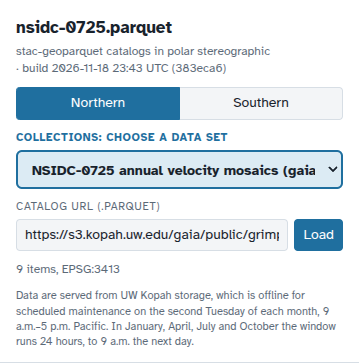
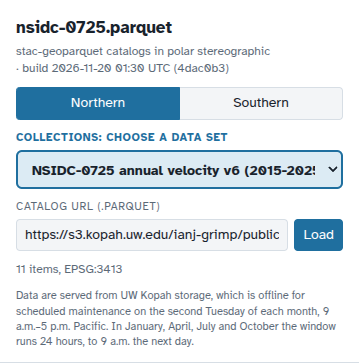
Refresh README screenshots and docs for the 11-19/20 changes
- All guide images retaken from the live viewer (annual v6 2015-2025, TSX v5,
  viridis speed, collapsible Color bar and Download, axis titles, plot grip and
  resize corner, Save download file); new background.jpg.
- README: Background paragraph and image in the tour, captions and the
  Jakobshavn anomaly text for 2014-15 to 2024-25, grimpdownload note, error-bar
  timing. Guide: color defaults, browse transparency, plot style/move/resize,
  collapsed Download and one-site TSX downloads.
- guideScreenshots.mjs: ianj-grimp catalogs, default color maps, background
  shot, crop box drawn for the Download panel; guideImages.py adds background.

diff --git a/tools/guideImages.py b/tools/guideImages.py
@@ -11,7 +11,7 @@ import os
 
 from PIL import Image
 
-fullShots = ['overview', 'vx', 'anomaly', 'animation', 'antarctica', 'tsx', 'readout', 'timeseries']
+fullShots = ['overview', 'vx', 'anomaly', 'animation', 'antarctica', 'tsx', 'readout', 'timeseries', 'background']
 panelShots = ['panel-catalog', 'panel-color', 'panel-download', 'panel-sites']
 
 

diff --git a/README.md b/README.md
@@ -50,7 +50,8 @@ These links only choose where to start. Once the viewer is open, switch to any o
 the **Collections** menu at the top of the panel, and between Greenland and Antarctica with the
 **Northern** / **Southern** buttons above it.
 
-Nothing to install: it runs in any current desktop browser (Chrome, Edge, Firefox, Safari).
+Nothing to install: it runs in any current desktop browser (Chrome, Edge, Firefox, Safari). Only
+downloading many files at once uses a small command-line tool (see [Download data](#7-download-data)).
 Hover over any control for a short explanation.
 
 ## A quick tour
@@ -87,9 +88,10 @@ The bar down the left edge of the map is a timeline, newest at the top, with a t
 
 <img src="Documents/images/panel-color.png" align="right" width="300" alt="Color bar, color map menu, clip slider and min/max boxes">
 
-Pick a **color map**, and use the **Clip** slider to set how many of the brightest (and darkest)
-pixels saturate, or type exact **Min** and **Max** values. Speeds start at zero; velocity
-components (vx, vy) are centered on zero in blue and red:
+In the **Color bar** section, pick a **color map**, and use the **Clip** slider to set how many of the
+brightest (and darkest) pixels saturate, or type exact **Min** and **Max** values. Speeds start at zero
+(in viridis until you pick another map); velocity components (vx, vy) are centered on zero in blue and
+red:
 
 <br clear="right">
 
@@ -98,7 +100,13 @@ components (vx, vy) are centered on zero in blue and red:
 Point at the map to read the exact value under the pointer, with its position in kilometers and
 in latitude and longitude:
 
-![Value readout over Jakobshavn Isbræ showing a speed of 2113.6 m/yr](Documents/images/readout.jpg)
+![Value readout over Jakobshavn Isbræ showing a speed of 2127.4 m/yr](Documents/images/readout.jpg)
+
+To see the ice and rock under the data, choose a radar image in **Background** (below the Blue Marble
+and Coastlines boxes), pick one of its dates under **Image**, and lower **Opacity**. The choice is kept
+for each hemisphere while the browser tab is open:
+
+![2024 Sentinel-1 radar backscatter under the annual speed at 60% opacity, Jakobshavn Isbræ](Documents/images/background.jpg)
 
 ### 4. Plot a time series at points
 
@@ -123,7 +131,7 @@ more files per date.
 - **Save CSV** writes the numbers (date, position, value, error, collection) for a spreadsheet or
   script; **Save plot** writes the picture.
 
-![Ice speed at three points near Jakobshavn Isbræ, 2014-2023](Documents/images/timeseries.jpg)
+![Ice speed at three points near Jakobshavn Isbræ, 2015-2025](Documents/images/timeseries.jpg)
 
 ### 5. See what changed
 
@@ -133,7 +141,7 @@ Step through the years with **Earlier** and **Later**, or by clicking the ticks 
 **Show stack** instead averages every date in the time range into one image. Both cover the whole
 image, or a box you draw with **Draw box** in that section for full resolution.
 
-![Speed in 2022-23 minus the 2014-2023 mean, showing fast-flowing outlet glaciers in red](Documents/images/anomaly.jpg)
+![Speed in 2024-25 minus the mean of all 11 years (2014-15 to 2024-25): outlet glaciers faster (red) or slower (blue) than usual](Documents/images/anomaly.jpg)
 
 ### 6. Make an animation
 
@@ -146,11 +154,11 @@ animation.
 **Save movie** writes an MP4 that plays in QuickTime, Windows Media Player, PowerPoint and
 web browsers.
 
-<img src="Documents/images/jakobshavn-anomaly.gif" align="right" width="320" alt="Animation of Jakobshavn Isbræ speed anomalies, 2014 to 2023">
+<img src="Documents/images/jakobshavn-anomaly.gif" align="right" width="320" alt="Animation of Jakobshavn Isbræ speed anomalies, 2014-15 to 2024-25">
 
-Here is Jakobshavn Isbræ from 2014 to 2023, as each year's speed minus the nine-year mean, with
-the range set to ±1500 m/yr: faster than average (red) in 2014-2016, slower (blue) in
-2017-2019, and faster again in 2020-21.
+Here is Jakobshavn Isbræ from 2014-15 to 2024-25, as each year's speed minus the 11-year mean,
+with the range set to ±1500 m/yr: faster than average (red) in 2014-16, slower (blue) in 2016-19,
+faster again in 2020-21, and close to or a little below average since.
 
 <br clear="right">
 
@@ -180,7 +188,7 @@ Tick the files you want under **Assets** (for velocity: speed, components, error
 
 <br clear="right">
 
-<img src="Documents/images/panel-sites.png" align="right" width="300" alt="Download sites panel with Select all sites box">
+<img src="Documents/images/panel-sites.png" align="right" width="300" alt="Download sites panel for TerraSAR-X glacier sites">
 
 Small glacier-site products, such as the TerraSAR-X boxes, are downloaded whole, one site box per
 download file: the dates of the displayed site in the time range, or dates you pick from one site
@@ -203,9 +211,6 @@ Switch to **Southern** for Antarctic products, drawn with the South Pole at the 
 - **Maintenance:** the data are stored on UW's Kopah storage, which is offline for maintenance on
   the second Tuesday of each month, 9 a.m.-5 p.m. Pacific (24 hours in January, April, July and
   October). The viewer will not load during those windows.
-- **Background:** pick a radar (backscatter) collection and one of its images to show in gray under
-  the data, in place of Blue Marble; lower **Opacity** to see it through velocity. The choice is kept
-  for each hemisphere while the browser tab is open.
 - **Hide controls** (top left of the map) gives the map the whole window.
 - **Phones and tablets:** the controls sit below the map; hide them for a full-screen map. Tap the
   map to read a value.
@@ -215,9 +220,9 @@ Switch to **Southern** for Antarctic products, drawn with the South Pole at the 
   resolution, where further zooming only enlarges the pixels.
 - **Resolution of anomalies, stacks and animations:** whole ice sheets are shown at a coarser
   level; draw a box to work at full resolution.
-- **Long point extractions take time:** each point reads one file per date (five with speed error
-  bars), so one point over the 516 six-day windows takes about a minute. Narrow the time range for
-  many points.
+- **Long point extractions take time:** each point reads one file per date, or five for speed with
+  **Error bars** ticked (one point over the 516 six-day windows with error bars, 2,580 files, takes
+  about a minute). Narrow the time range for many points.
 - **Points can't be placed under the timeline** (its faint box takes the clicks); pan the map instead.
 
 ## Using your own data

diff --git a/Documents/grimpPolarViewer.md b/Documents/grimpPolarViewer.md
@@ -75,12 +75,16 @@ The vertical bar at the left edge of the map has one tick per acquisition date (
 
 ### Color and values
 
-- **Color map**, **Clip % (percentile stretch)** and **Min/Max**. The clip is computed from a
-  ~1000-pixel overview of the COG.
+- The **Color bar** section (file name, color bar, **Color map**, **Clip % (percentile stretch)** and
+  **Min/Max**) collapses; it starts open. The clip is computed from a ~1000-pixel overview of the COG.
+- Speed (`vv`) opens in viridis and other single-band assets in gray, until a color map is picked;
+  after that the pick is kept (vx/vy still switch to blue-white-red and back).
 - Stretch rules by asset name: `vv`, `ex`, `ey` start at a hard 0 (clip only the top); `vx`, `vy`
   are symmetric about 0 (±L, the larger tail at the clip %) and switch to the blue-white-red map;
   everything else clips both ends.
 - RGB(A) assets (three or more bands, e.g. `browse`) are drawn as stored; the stretch controls hide.
+  Three-band images without alpha (the velocity browse COGs) have a pure white (255, 255, 255)
+  background, which is drawn transparent.
 - **Hover readout** (bottom right; tap on touch screens): map x/y in km, latitude/longitude, and the value under the
   pointer read from the full-resolution COG (exact native value, with units). During an animation,
   anomaly or stack it reports that layer's value instead (for the stack, the mean and how many dates
@@ -158,6 +162,11 @@ product's date range, one color per point.
   ringed, so clicking a time-bar tick moves the marker. Clicking a point on the plot shows that
   date's image, as if its tick were clicked.
 - **Hide plot / Show plot** in the panel toggles the plot; its x also hides it.
+- **Plot style:** lines and points (default), points only, or lines only; applies to the series of
+  earlier collections too. The axes are titled with the asset and unit (y) and Date (x).
+- **Moving and resizing:** drag the ✥ grip (top left) to move the plot anywhere over the map and the
+  striped corner (bottom right) to resize it (at least 320 x 180 px, inside the map); double-click the
+  grip to put it back. The plot sits above the time bar.
 
 **Comparing**
 
@@ -208,6 +217,9 @@ directly comparable; changing either asks for a reload.
 
 ### Downloads
 
+The **Download** section collapses (it starts collapsed); the product list and its pick boxes below it
+show only while it is open.
+
 - **Assets (one file each)** with an **All** box choose what to download.
 - **Download this product's assets** saves the ticked assets' original COGs of the displayed item: from NSIDC when a CMR search
   (started when the item is shown, matched by file name) finds them for the collection's exact version
@@ -226,8 +238,9 @@ directly comparable; changing either asks for a reload.
   written as float32 in physical units (e.g. dB) with nodata kept; RGB as 8-bit RGB. Selections are
   cropped by `grimpdownload`, not in the browser.
 - **Site products** (median footprint under 100 km across, e.g. NSIDC-0481 TSX boxes) get a
-  **Download sites** section instead: no crop, a **Select all sites** box, list checkboxes, and
-  Shift/Ctrl/Cmd-click on a box to pick it.
+  **Download sites** section instead: no crop, one site box per download file (the displayed site's
+  dates in the time range, or dates picked from one site with the list checkboxes or
+  Shift/Ctrl/Cmd-click on a box). The old **Select all sites** box is hidden.
 
 ## Catalog requirements
 
